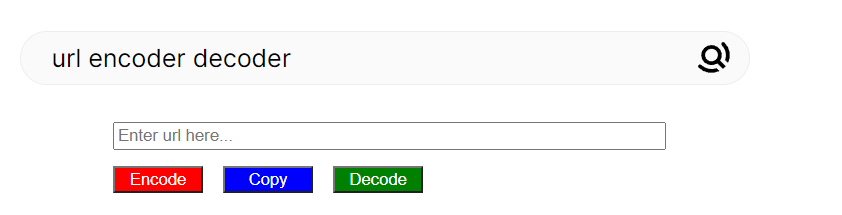
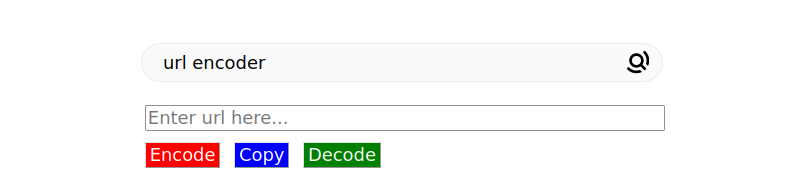
minor styling changes; updated screenshot

Changed region(s): [[0.1221, 0.5556, 0.855, 0.9444], [0.0611, 0.2222, 0.3664, 0.3889], [0.7939, 0.1944, 0.8855, 0.4167]]

diff --git a/apps/url-encoder-decoder/src/App.tsx b/apps/url-encoder-decoder/src/App.tsx
@@ -8,11 +8,14 @@ import { isTriggered } from "@felvin-search/core";
 
 const TextBox = styled.input.attrs({ type: "text" })`
   width: 100%;
+  font: inherit;
 `;
 
 const ButtonEnc = styled.button`
+  font: inherit;
+  cursor: pointer;
+
   background: red;
-  width: 4.5rem;
   margin: 0.8rem 1rem 0 0;
   color: white;
 `;
